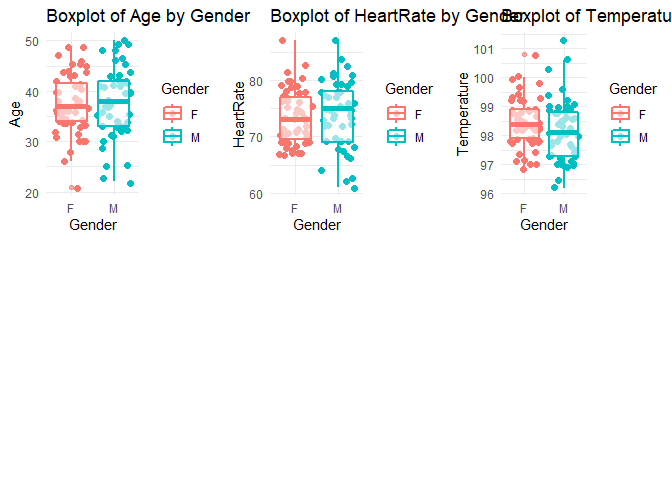
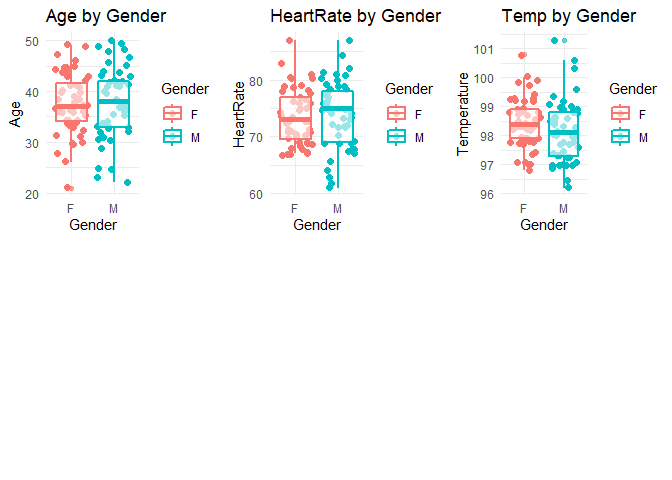
fix boxplot headlines

diff --git a/README.md b/README.md
@@ -1,7 +1,7 @@
 Analyses with Data from Biostatistics With R
 ================
 Paul G. Smith
-First created on Nov 1, 2019. Updated on Nov 05, 2019
+First created on Nov 1, 2019. Updated on Dec 02, 2019
 
 ## Analyses with Data from Biostatistics With R by Babak Shahbaba
 
@@ -62,14 +62,14 @@ source("Dependencies.R", echo = TRUE)
     ## 
     ## > library(tidyverse)
 
-    ## -- Attaching packages ---------------------------------------------------------------------------- tidyverse 1.2.1 --
+    ## -- Attaching packages --------------------------- tidyverse 1.2.1 --
 
     ## v tibble  2.1.3     v purrr   0.3.3
     ## v tidyr   1.0.0     v dplyr   0.8.3
     ## v readr   1.3.1     v stringr 1.4.0
     ## v tibble  2.1.3     v forcats 0.4.0
 
-    ## -- Conflicts ------------------------------------------------------------------------------- tidyverse_conflicts() --
+    ## -- Conflicts ------------------------------ tidyverse_conflicts() --
     ## x psych::%+%()        masks ggplot2::%+%()
     ## x psych::alpha()      masks ggplot2::alpha(), scales::alpha()
     ## x readr::col_factor() masks scales::col_factor()
@@ -324,20 +324,20 @@ source("002_Create data dictionary.R", echo = TRUE)
     ##         Mean   :37.62   Mean   :73.66   Mean   : 98.33   Mean   :2.03  
     ##         3rd Qu.:42.00   3rd Qu.:78.00   3rd Qu.: 98.90   3rd Qu.:3.00  
     ##         Max.   :50.00   Max.   :87.00   Max.   :101.30   Max.   :3.00  
-    ##       AGE1           AGE2           AGE3       HEARTRATEGRP 
-    ##  Min.   :0.00   Min.   :0.00   Min.   :0.00   Min.   :1.00  
-    ##  1st Qu.:0.00   1st Qu.:0.00   1st Qu.:0.00   1st Qu.:1.00  
-    ##  Median :0.00   Median :0.00   Median :0.00   Median :2.00  
-    ##  Mean   :0.33   Mean   :0.31   Mean   :0.36   Mean   :2.01  
-    ##  3rd Qu.:1.00   3rd Qu.:1.00   3rd Qu.:1.00   3rd Qu.:3.00  
-    ##  Max.   :1.00   Max.   :1.00   Max.   :1.00   Max.   :3.00  
-    ##      HEART1         HEART2         HEART3    
-    ##  Min.   :0.00   Min.   :0.00   Min.   :0.00  
-    ##  1st Qu.:0.00   1st Qu.:0.00   1st Qu.:0.00  
-    ##  Median :0.00   Median :0.00   Median :0.00  
-    ##  Mean   :0.31   Mean   :0.37   Mean   :0.32  
-    ##  3rd Qu.:1.00   3rd Qu.:1.00   3rd Qu.:1.00  
-    ##  Max.   :1.00   Max.   :1.00   Max.   :1.00  
+    ##       AGE1           AGE2           AGE3       HEARTRATEGRP      HEART1    
+    ##  Min.   :0.00   Min.   :0.00   Min.   :0.00   Min.   :1.00   Min.   :0.00  
+    ##  1st Qu.:0.00   1st Qu.:0.00   1st Qu.:0.00   1st Qu.:1.00   1st Qu.:0.00  
+    ##  Median :0.00   Median :0.00   Median :0.00   Median :2.00   Median :0.00  
+    ##  Mean   :0.33   Mean   :0.31   Mean   :0.36   Mean   :2.01   Mean   :0.31  
+    ##  3rd Qu.:1.00   3rd Qu.:1.00   3rd Qu.:1.00   3rd Qu.:3.00   3rd Qu.:1.00  
+    ##  Max.   :1.00   Max.   :1.00   Max.   :1.00   Max.   :3.00   Max.   :1.00  
+    ##      HEART2         HEART3    
+    ##  Min.   :0.00   Min.   :0.00  
+    ##  1st Qu.:0.00   1st Qu.:0.00  
+    ##  Median :0.00   Median :0.00  
+    ##  Mean   :0.37   Mean   :0.32  
+    ##  3rd Qu.:1.00   3rd Qu.:1.00  
+    ##  Max.   :1.00   Max.   :1.00  
     ## 
     ## > sapply(BodyTemperature[2:4], function(x) c(`Stand dev` = sd(x), 
     ## +     Mean = mean(x, na.rm = TRUE), n = length(x), Median = median(x), 
@@ -359,32 +359,32 @@ source("002_Create data dictionary.R", echo = TRUE)
     ## +     append = TRUE)
     ## 
     ## > psych::describe(BodyTemperature)
-    ##              vars   n  mean   sd median trimmed  mad  min   max range
-    ## Gender*         1 100  1.49 0.50    1.0    1.49 0.00  1.0   2.0   1.0
-    ## Age             2 100 37.62 6.43   37.0   37.76 5.93 21.0  50.0  29.0
-    ## HeartRate       3 100 73.66 5.31   73.0   73.60 5.93 61.0  87.0  26.0
-    ## Temperature     4 100 98.33 0.96   98.3   98.29 0.89 96.2 101.3   5.1
-    ## AGEGRP          5 100  2.03 0.83    2.0    2.04 1.48  1.0   3.0   2.0
-    ## AGE1            6 100  0.33 0.47    0.0    0.29 0.00  0.0   1.0   1.0
-    ## AGE2            7 100  0.31 0.46    0.0    0.26 0.00  0.0   1.0   1.0
-    ## AGE3            8 100  0.36 0.48    0.0    0.32 0.00  0.0   1.0   1.0
-    ## HEARTRATEGRP    9 100  2.01 0.80    2.0    2.01 1.48  1.0   3.0   2.0
-    ## HEART1         10 100  0.31 0.46    0.0    0.26 0.00  0.0   1.0   1.0
-    ## HEART2         11 100  0.37 0.49    0.0    0.34 0.00  0.0   1.0   1.0
-    ## HEART3         12 100  0.32 0.47    0.0    0.28 0.00  0.0   1.0   1.0
-    ##               skew kurtosis   se
-    ## Gender*       0.04    -2.02 0.05
-    ## Age          -0.23    -0.32 0.64
-    ## HeartRate     0.09    -0.38 0.53
-    ## Temperature   0.38     0.22 0.10
-    ## AGEGRP       -0.06    -1.58 0.08
-    ## AGE1          0.71    -1.51 0.05
-    ## AGE2          0.81    -1.36 0.05
-    ## AGE3          0.57    -1.69 0.05
-    ## HEARTRATEGRP -0.02    -1.44 0.08
-    ## HEART1        0.81    -1.36 0.05
-    ## HEART2        0.53    -1.74 0.05
-    ## HEART3        0.76    -1.44 0.05
+    ##              vars   n  mean   sd median trimmed  mad  min   max range  skew
+    ## Gender*         1 100  1.49 0.50    1.0    1.49 0.00  1.0   2.0   1.0  0.04
+    ## Age             2 100 37.62 6.43   37.0   37.76 5.93 21.0  50.0  29.0 -0.23
+    ## HeartRate       3 100 73.66 5.31   73.0   73.60 5.93 61.0  87.0  26.0  0.09
+    ## Temperature     4 100 98.33 0.96   98.3   98.29 0.89 96.2 101.3   5.1  0.38
+    ## AGEGRP          5 100  2.03 0.83    2.0    2.04 1.48  1.0   3.0   2.0 -0.06
+    ## AGE1            6 100  0.33 0.47    0.0    0.29 0.00  0.0   1.0   1.0  0.71
+    ## AGE2            7 100  0.31 0.46    0.0    0.26 0.00  0.0   1.0   1.0  0.81
+    ## AGE3            8 100  0.36 0.48    0.0    0.32 0.00  0.0   1.0   1.0  0.57
+    ## HEARTRATEGRP    9 100  2.01 0.80    2.0    2.01 1.48  1.0   3.0   2.0 -0.02
+    ## HEART1         10 100  0.31 0.46    0.0    0.26 0.00  0.0   1.0   1.0  0.81
+    ## HEART2         11 100  0.37 0.49    0.0    0.34 0.00  0.0   1.0   1.0  0.53
+    ## HEART3         12 100  0.32 0.47    0.0    0.28 0.00  0.0   1.0   1.0  0.76
+    ##              kurtosis   se
+    ## Gender*         -2.02 0.05
+    ## Age             -0.32 0.64
+    ## HeartRate       -0.38 0.53
+    ## Temperature      0.22 0.10
+    ## AGEGRP          -1.58 0.08
+    ## AGE1            -1.51 0.05
+    ## AGE2            -1.36 0.05
+    ## AGE3            -1.69 0.05
+    ## HEARTRATEGRP    -1.44 0.08
+    ## HEART1          -1.36 0.05
+    ## HEART2          -1.74 0.05
+    ## HEART3          -1.44 0.05
 
 ### Plot variables
 
@@ -844,10 +844,8 @@ source("210_Additional regression models.R", echo = TRUE)
     ##     data = BodyTemperature)
     ## 
     ## Coefficients:
-    ## (Intercept)      GenderM         AGE1         AGE2       HEART1  
-    ##     98.9196      -0.3029       0.2725       0.6219      -1.2188  
-    ##      HEART2  
-    ##     -0.9354  
+    ## (Intercept)      GenderM         AGE1         AGE2       HEART1       HEART2  
+    ##     98.9196      -0.3029       0.2725       0.6219      -1.2188      -0.9354  
     ## 
     ## 
     ## ASSESSMENT OF THE LINEAR MODEL ASSUMPTIONS
